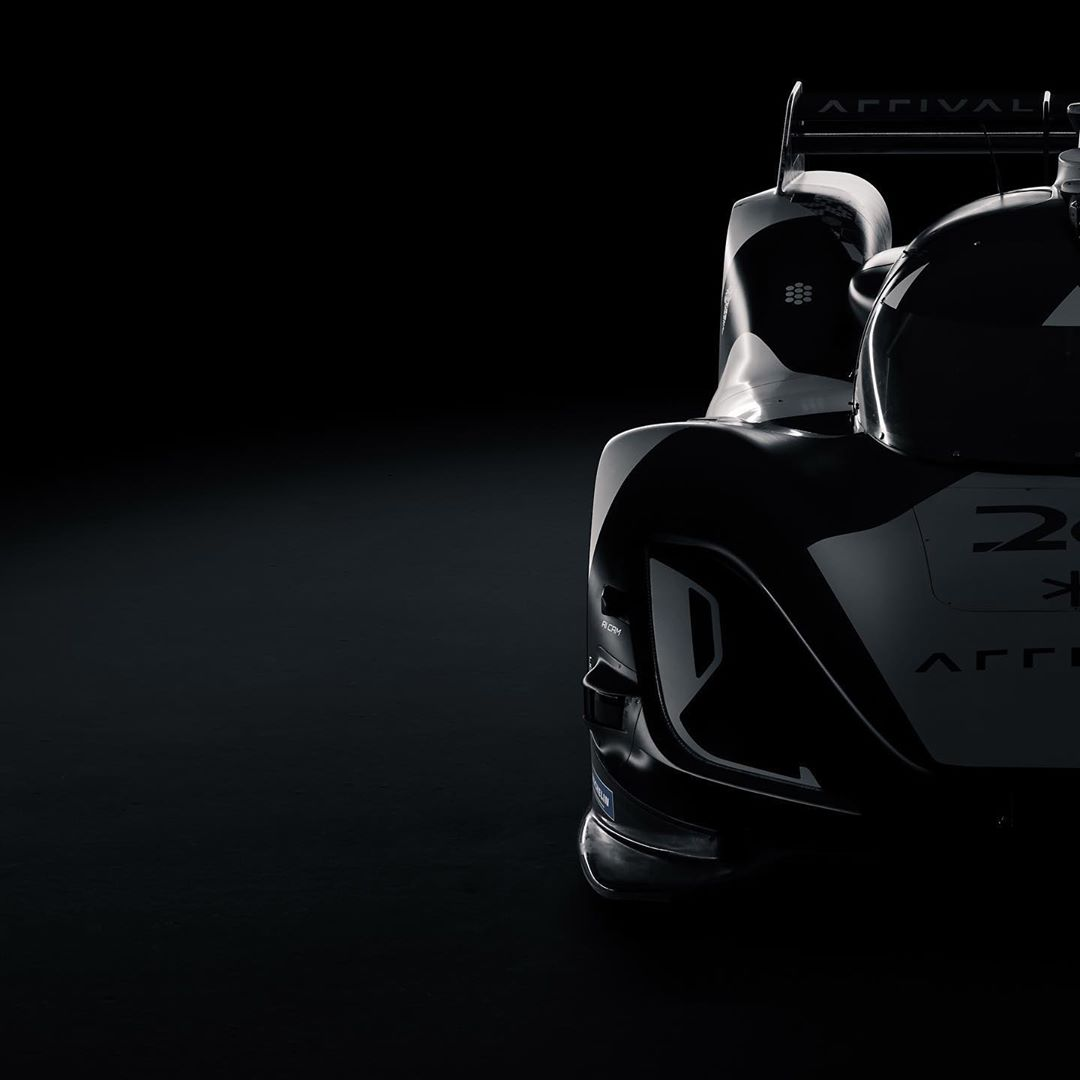
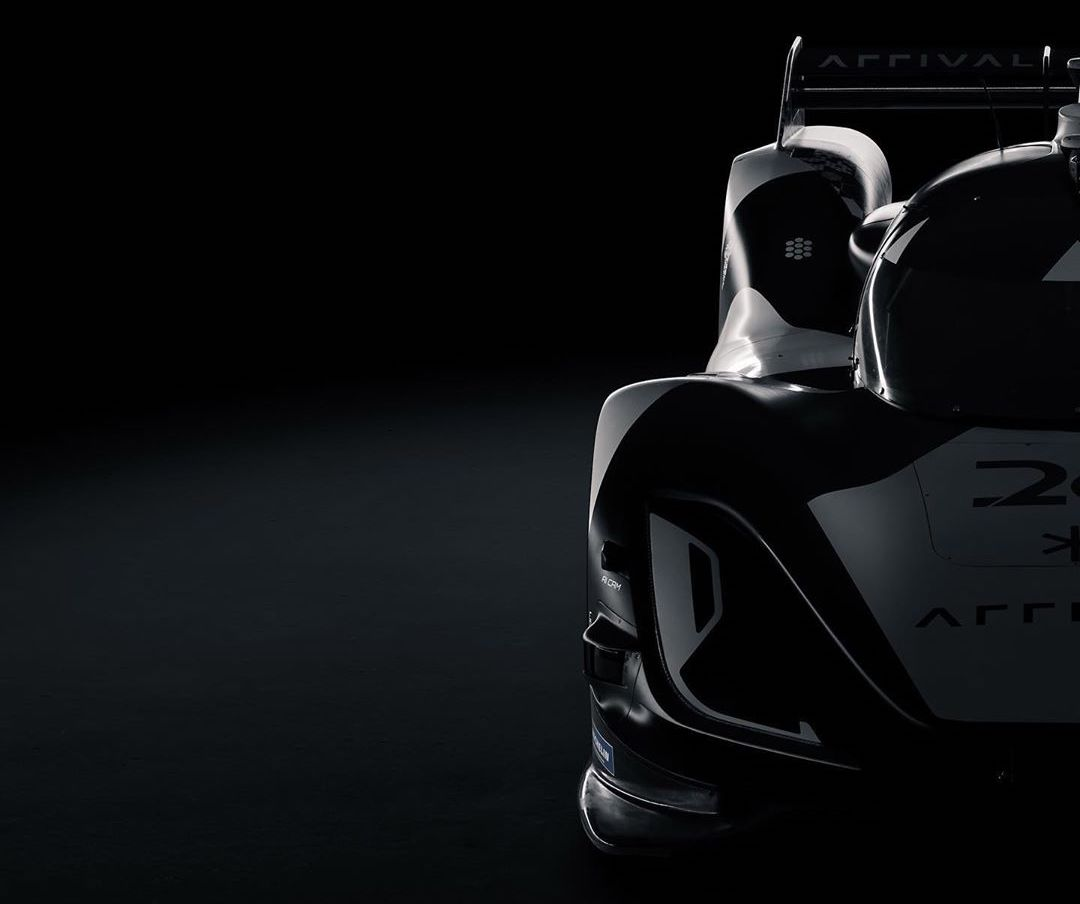
src

diff --git a/sim.html b/sim.html
@@ -20,7 +20,7 @@ function toggleVis(item) {
 <h3>Obtaining the Arrival Racing Simulator</h3>
 
 <div class="container" style="margin-top:50px;margin-bottom:30px;">
-    <img width="700px" height="700px" src="/img/bg-sim-arr_car.jpeg" alt="Arrival Racing Simulator">
+    <img width="700px" height="586px" src="/img/bg-sim-arr_car.jpeg" alt="Arrival Racing Simulator">
 </div>
 
 <h3>Selected feature highlights</h3>
